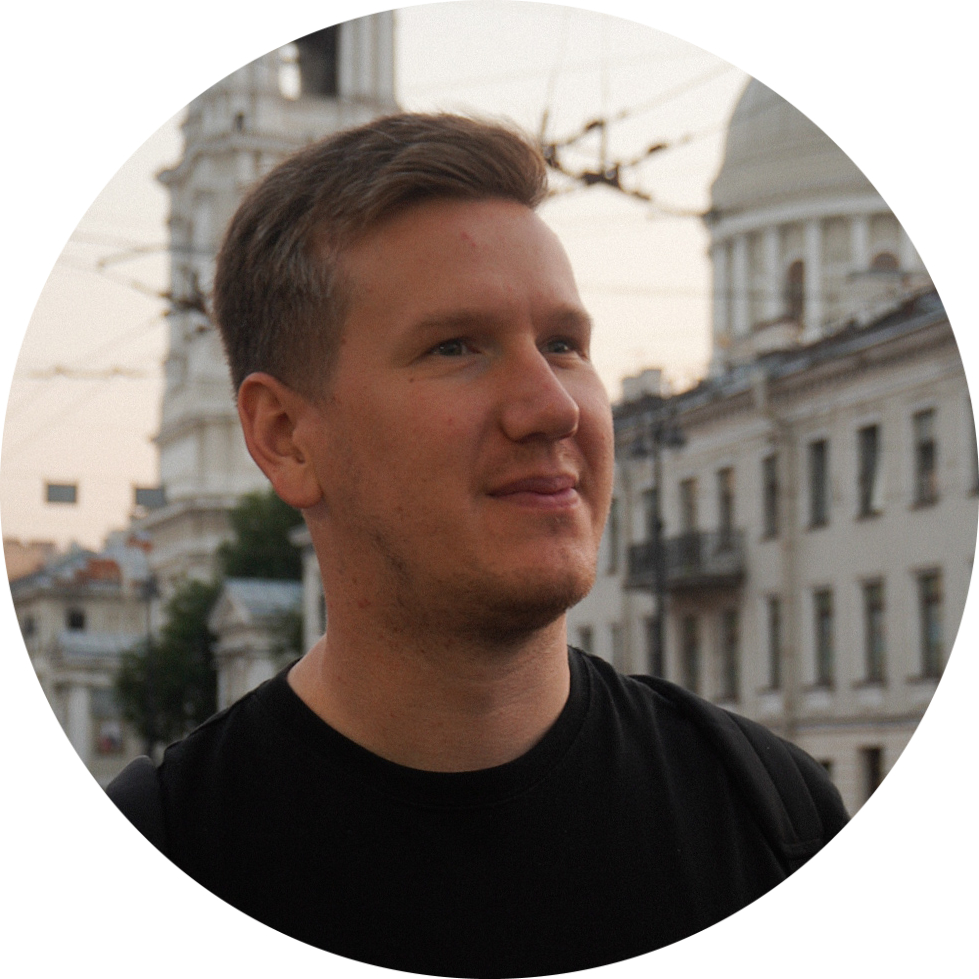
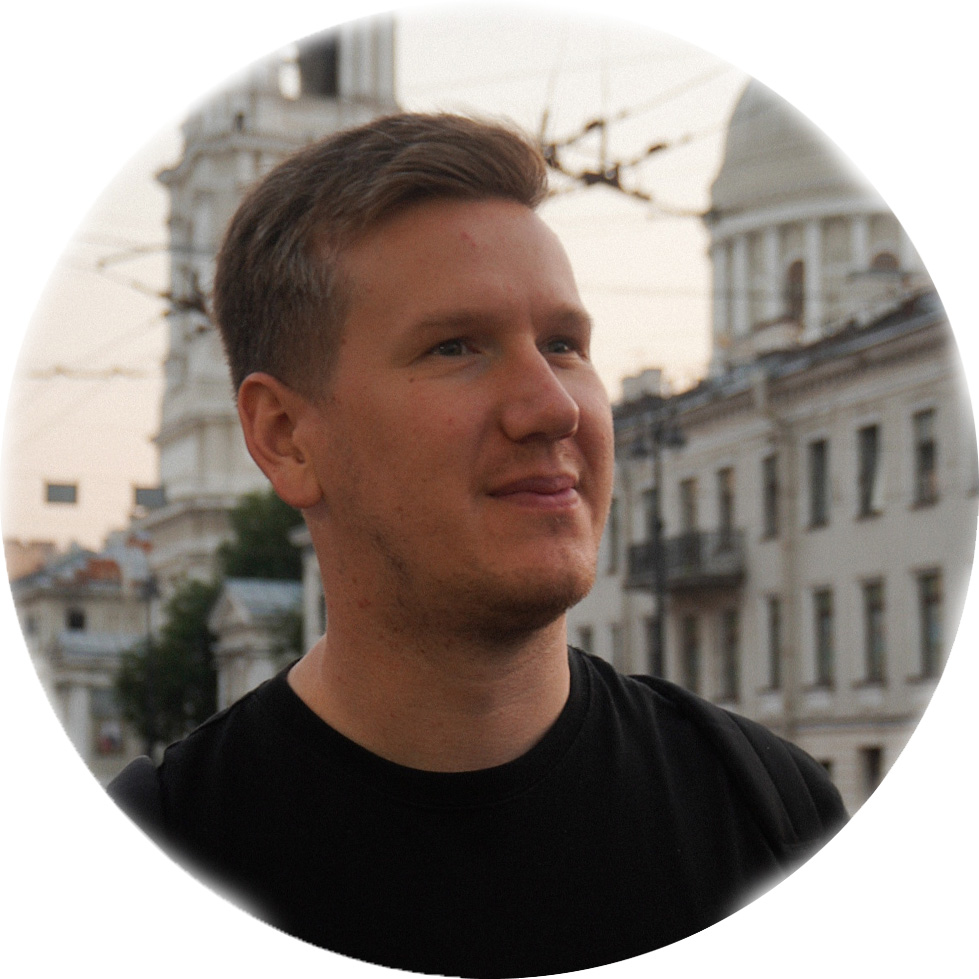
web_task_3

diff --git a/index.html b/index.html
@@ -2,12 +2,14 @@
 <html lang="en">
 <head>
     <meta charset="UTF-8">
+    <link rel="stylesheet" href="css/style.css">
     <title>🥇 CV Vitaliy Bagaev</title>
+
 </head>
 <body>
     <table cellspacing="20px">
         <tr>
-            <td><img src="img/DSC07999.jpg" alt="photo profile Vitaly Bagaev" style="width: 150px; height: 150px"></td>
+            <td><img src="img/DSC07999.jpg" alt="photo profile Vitaly Bagaev"></td>
             <td><h1>Vitaliy Bagaev</h1>
             <p><i>Backend <b>Python developer</b></i></p>
             <p>Я начинающий Python разработчик, занимаюсь самостоятельным изучением тонкости разработки на языке Python!</p>

diff --git a/css/style.css b/css/style.css
@@ -1,0 +1,32 @@
+
+/*
+color:
+#FCFFE7 / background
+#BC002D / text
+*/
+
+body {
+    background-color: #ffffff;
+}
+
+hr {
+    border: none;
+    border-top: 5px dotted #BC002D;
+    width: 10%;
+}
+
+img{
+    width: 150px;
+    height: 150px;
+    border-radius: 50%;
+}
+
+h1 {
+    color: #000000;
+    font-family: "Eh_cyr", serif;
+}
+
+h3 {
+    color: #BC002D;
+    font-family: "Eh_cyr", serif;
+}

diff --git a/contact.html b/contact.html
@@ -3,6 +3,7 @@
 <head>
     <meta charset="UTF-8">
     <title>My contact</title>
+    <link rel="stylesheet" href="css/style.css">
 </head>
 <body>
     <h3>Мои контактные данные</h3>

diff --git a/hobbies.html b/hobbies.html
@@ -3,6 +3,7 @@
 <head>
     <meta charset="UTF-8">
     <title>My Hobbies</title>
+    <link rel="stylesheet" href="css/style.css">
 </head>
 <body>
     <h3>Мои привычки</h3>
